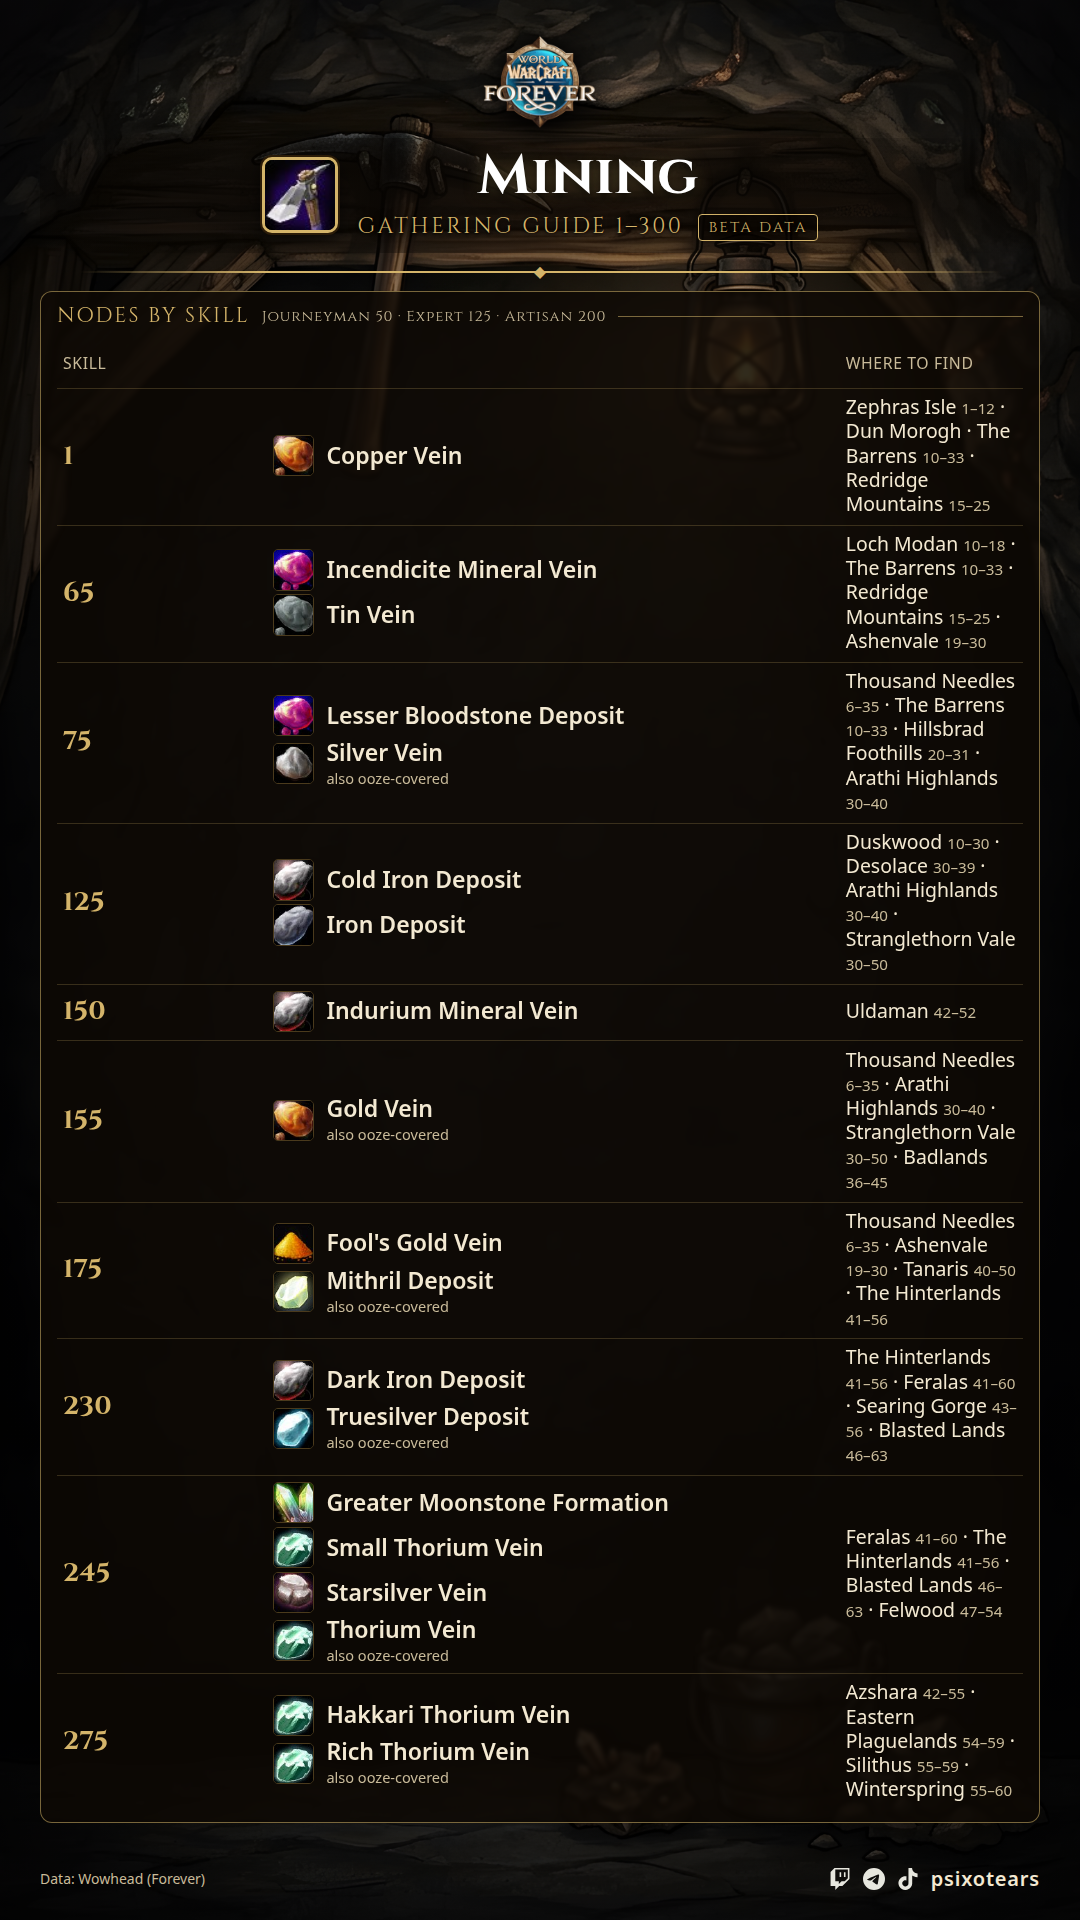
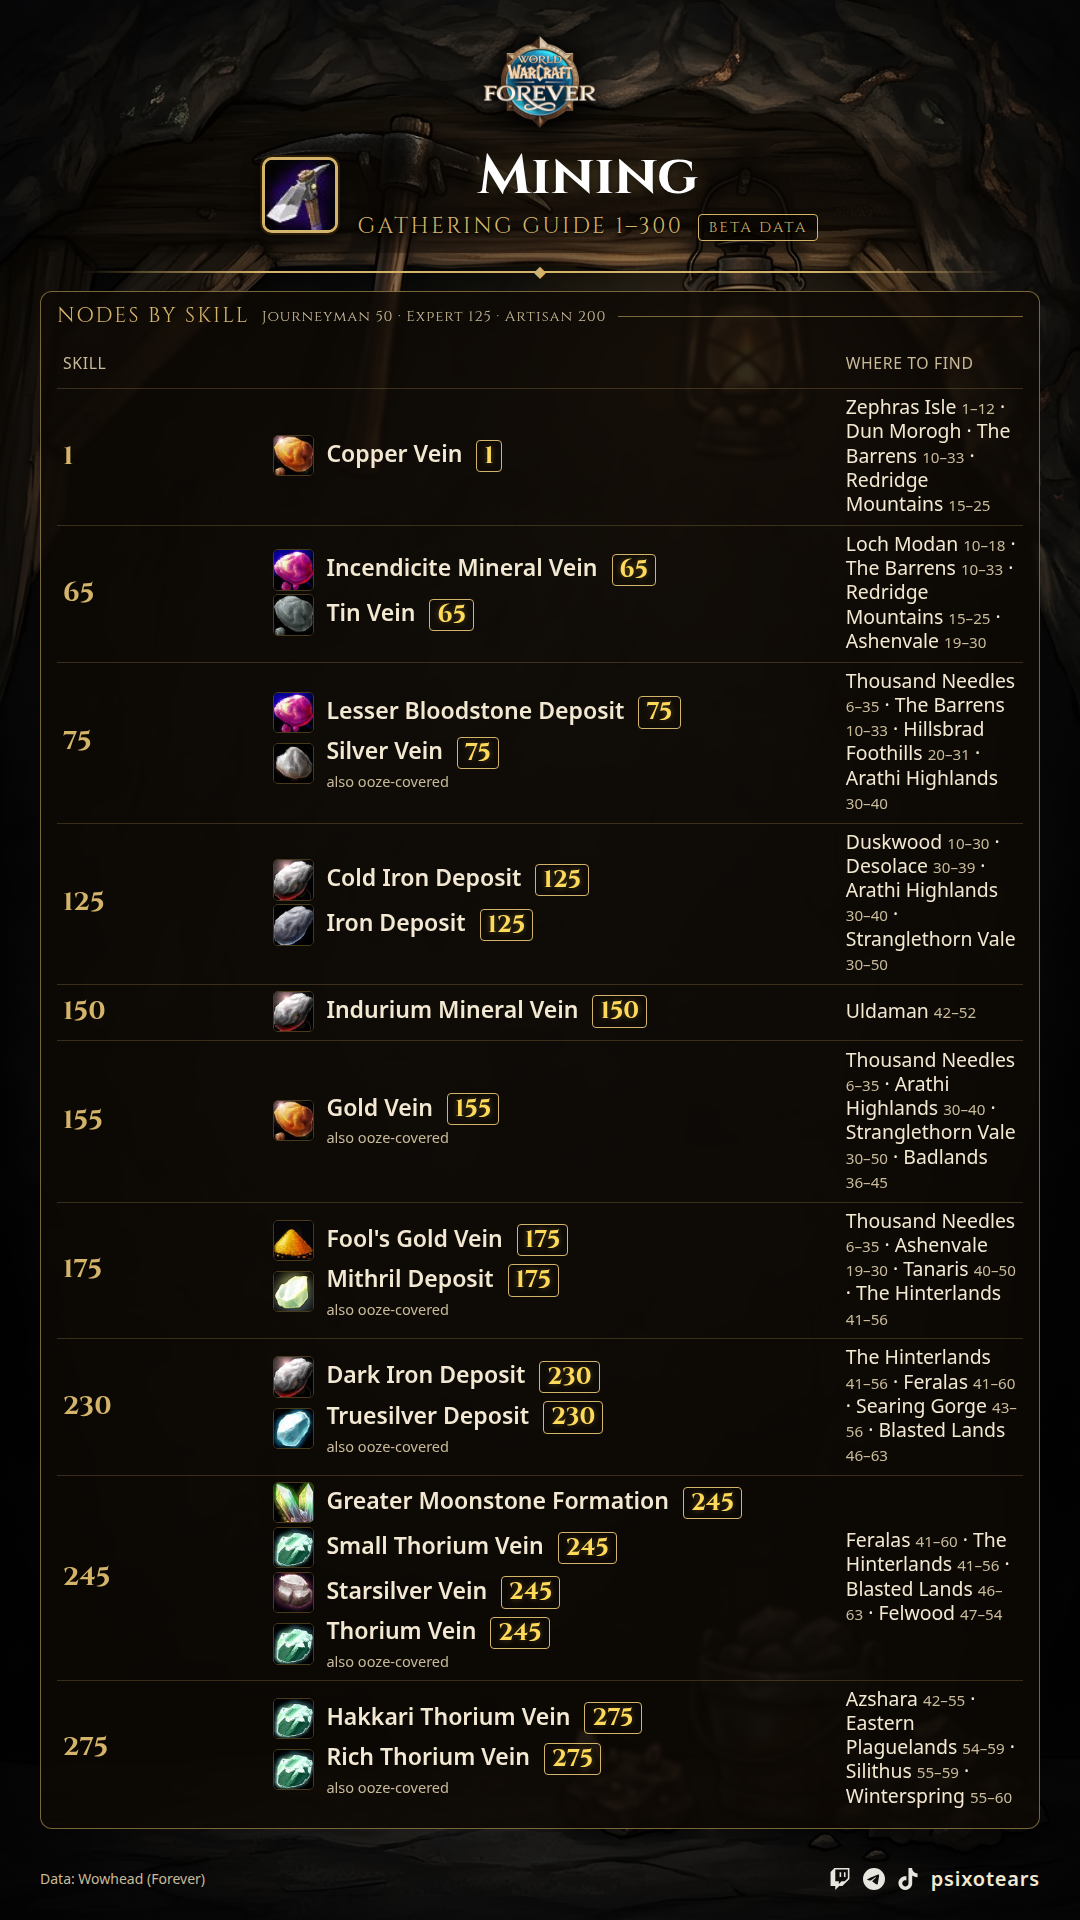
Gathering cards: larger per-node skill badges; re-render herbalism and mining in 7 languages
Claude-Session: https://claude.ai/code/session_012e8LnHD2AptEEnhumMxWH2

diff --git a/wow-cards/pipeline/render.py b/wow-cards/pipeline/render.py
@@ -202,7 +202,7 @@ td.gn{width:calc(300px * var(--s))}
 .gn .chips{display:flex;flex-direction:column;gap:calc(3px * var(--s))}
 .gn img{width:calc(34px * var(--s));height:calc(34px * var(--s));border-radius:5px;border:1.5px solid #4a3a1c;flex:none}
 .gn .nm{font-size:calc(19px * var(--s));font-weight:600;line-height:1.05}
-.gn .sk{display:inline-block;margin-left:6px;padding:0 6px;border:1px solid var(--gold2);border-radius:4px;font-family:HEADFONT;font-size:calc(14px * var(--s));color:#ffd95a;vertical-align:middle;line-height:1.3}
+.gn .sk{display:inline-block;margin-left:8px;padding:0 7px;border:1.5px solid var(--gold);border-radius:4px;font-family:HEADFONT;font-size:calc(20px * var(--s));font-weight:700;color:#ffd95a;vertical-align:middle;line-height:1.25;text-shadow:0 0 6px rgba(255,217,90,.3)}
 .gn .oz{font-size:calc(12px * var(--s));color:var(--dim);display:block;margin-top:2px}
 td.gz{font-size:calc(16px * var(--s));line-height:1.25;color:var(--ink)}
 .gz span{white-space:normal}
